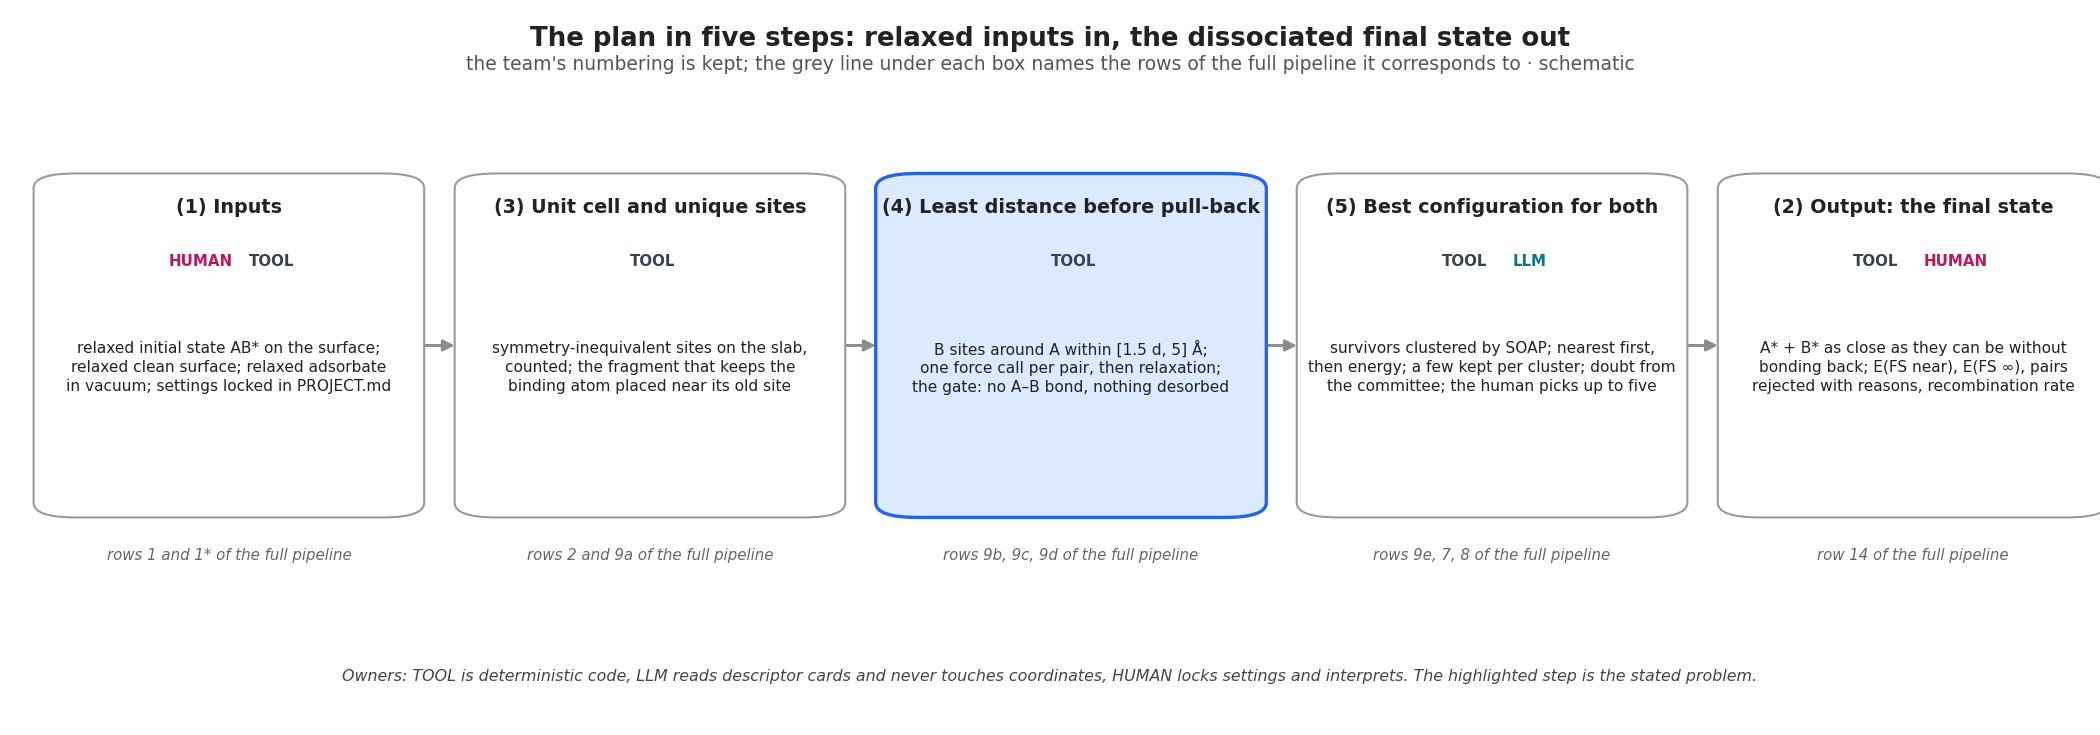
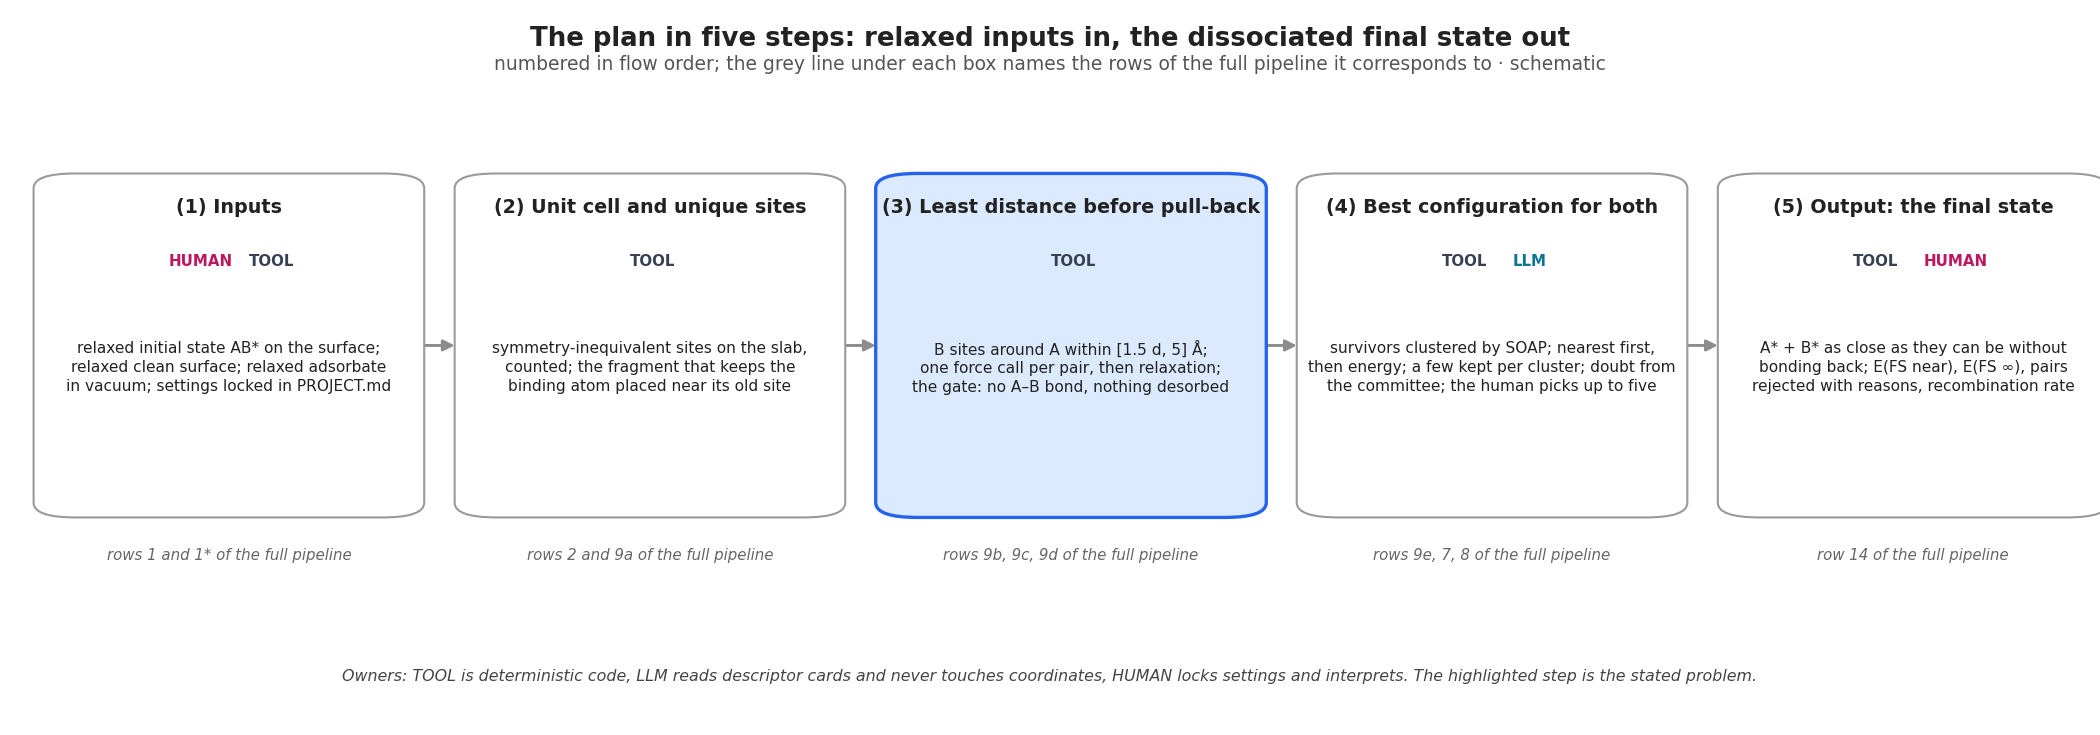
Simplified pipeline numbered in flow order

diff --git a/archive/docs/figures/src/26-simplified-pipeline.py b/archive/docs/figures/src/26-simplified-pipeline.py
@@ -8,12 +8,12 @@ OWNER_COL = {"TOOL": "#374151", "LLM": "#0e7490", "HUMAN": "#be185d"}
 fig = plt.figure(figsize=(14, 4.9))
 ax = fig.add_axes([0, 0, 1, 1]); ax.set_xlim(0, 1); ax.set_ylim(0, 1); ax.axis("off")
 title(fig, "The plan in five steps: relaxed inputs in, the dissociated final state out",
-      "the team's numbering is kept; the grey line under each box names the rows of the full pipeline it corresponds to · schematic")
+      "numbered in flow order; the grey line under each box names the rows of the full pipeline it corresponds to · schematic")
 steps = [("(1) Inputs", "relaxed initial state AB* on the surface;\nrelaxed clean surface; relaxed adsorbate\nin vacuum; settings locked in PROJECT.md", "HUMAN · TOOL", "rows 1 and 1*", False),
-         ("(3) Unit cell and unique sites", "symmetry-inequivalent sites on the slab,\ncounted; the fragment that keeps the\nbinding atom placed near its old site", "TOOL", "rows 2 and 9a", False),
-         ("(4) Least distance before pull-back", "B sites around A within [1.5 d, 5] Å;\none force call per pair, then relaxation;\nthe gate: no A–B bond, nothing desorbed", "TOOL", "rows 9b, 9c, 9d", True),
-         ("(5) Best configuration for both", "survivors clustered by SOAP; nearest first,\nthen energy; a few kept per cluster; doubt from\nthe committee; the human picks up to five", "TOOL · LLM", "rows 9e, 7, 8", False),
-         ("(2) Output: the final state", "A* + B* as close as they can be without\nbonding back; E(FS near), E(FS ∞), pairs\nrejected with reasons, recombination rate", "TOOL · HUMAN", "row 14", False)]
+         ("(2) Unit cell and unique sites", "symmetry-inequivalent sites on the slab,\ncounted; the fragment that keeps the\nbinding atom placed near its old site", "TOOL", "rows 2 and 9a", False),
+         ("(3) Least distance before pull-back", "B sites around A within [1.5 d, 5] Å;\none force call per pair, then relaxation;\nthe gate: no A–B bond, nothing desorbed", "TOOL", "rows 9b, 9c, 9d", True),
+         ("(4) Best configuration for both", "survivors clustered by SOAP; nearest first,\nthen energy; a few kept per cluster; doubt from\nthe committee; the human picks up to five", "TOOL · LLM", "rows 9e, 7, 8", False),
+         ("(5) Output: the final state", "A* + B* as close as they can be without\nbonding back; E(FS near), E(FS ∞), pairs\nrejected with reasons, recombination rate", "TOOL · HUMAN", "row 14", False)]
 W, H, G = 0.178, 0.46, 0.0225; x0 = 0.02
 for i, (t, b, own, rows, hi) in enumerate(steps):
     x = x0 + i * (W + G); y = 0.30

diff --git a/README.md b/README.md
@@ -24,25 +24,25 @@ Reading the figure: panel 1, three relaxed inputs; panel 3, the unit cell and it
 
 ## The pipeline in five steps
 
-The team's five panels map onto the full pipeline without changing their numbering; panel 4, the least distance before pull-back, is the stated problem.
+The team's five panels, numbered here in flow order, map onto the full pipeline; step 3, the least distance before pull-back, is the stated problem.
 
 ![The plan in five steps, each with its owners and the rows of the full pipeline it corresponds to](figures/simplified-pipeline.png)
 
 *Figure: simplified pipeline · 5 steps, owners, row mapping, schematic*
 
-Reading the figure: boxes run left to right in the team's numbering, the owner line under each title is in colour, the highlighted box is the stated problem, and the grey line under each box names the rows of the full pipeline. The table below carries the same owners and row mapping.
+Reading the figure: boxes run left to right in flow order, the owner line under each title is in colour, the highlighted box is the stated problem, and the grey line under each box names the rows of the full pipeline. The table below carries the same owners and row mapping.
 
 | Step | What it does | Owner | Rows of the full pipeline |
 |---|---|---|---|
 | 1 Inputs | Relaxed AB\* on the surface, clean surface, adsorbate in vacuum, retrieved and locked with the settings in `PROJECT.md`; the human approves; the MLIP chosen before any placement | Human, Tool | 1, 1\* |
-| 3 Unit cell and unique sites | Cell wide enough that the pair never sees its periodic image, locked in row 1; symmetry-inequivalent sites on the slab, counted; the fragment keeping the binding atom placed near its old site | Tool | 2, 9a |
-| 4 Least distance before pull-back | B sites around A within [1.5 d, 5] Å; one force call per pair, then relaxation; the validity gate: no A–B bond, nothing desorbed | Tool | 9b, 9c, 9d |
-| 5 Best configuration for both | For adsorbent #1, A, and adsorbent #2, B: survivors clustered by SOAP; nearest first, then energy; the nearest and the lowest kept per cluster, more is open: team decision; the geometry-critic may order, never remove; doubt from the committee; the human picks up to five | Tool, LLM | 9e, 7, 8 |
-| 2 Output | A\* + B\* as close as they can be without bonding back; both energies; rejected pairs with reasons; recombination rate; the calibrated doubt from mlip_doubt; the LLM drafts the report and the human interprets | Tool, Human | 14 |
+| 2 Unit cell and unique sites | Cell wide enough that the pair never sees its periodic image, locked in row 1; symmetry-inequivalent sites on the slab, counted; the fragment keeping the binding atom placed near its old site | Tool | 2, 9a |
+| 3 Least distance before pull-back | B sites around A within [1.5 d, 5] Å; one force call per pair, then relaxation; the validity gate: no A–B bond, nothing desorbed | Tool | 9b, 9c, 9d |
+| 4 Best configuration for both | For adsorbent #1, A, and adsorbent #2, B: survivors clustered by SOAP; nearest first, then energy; the nearest and the lowest kept per cluster, more is open: team decision; the geometry-critic may order, never remove; doubt from the committee; the human picks up to five | Tool, LLM | 9e, 7, 8 |
+| 5 Output | A\* + B\* as close as they can be without bonding back; both energies; rejected pairs with reasons; recombination rate; the calibrated doubt from mlip_doubt; the LLM drafts the report and the human interprets | Tool, Human | 14 |
 
 Owners: Tool is deterministic code; LLM plans, chooses and drafts from descriptor cards and never touches coordinates; Human locks settings, picks and interprets; Skill is a written procedure the LLM follows; Literature enters before the run and after it only, and a human verifies every value.
 
-The board's step 3, placing the dissociated fragment, has six points; each lands in one row of step 4 or step 5.
+The board's step 3, placing the dissociated fragment, has six points; each lands in one row of step 3 or step 4 above.
 
 | Point of the board's step 3 | Row that holds it |
 |---|---|
